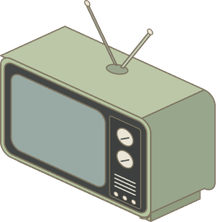
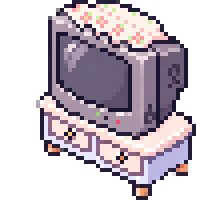
TV 그림을 에셋 담당이 보낸 픽셀 그림으로 바꾸고, 받침까지 그린 그림이라 책상 위 물건에서 바닥 가구로 바꿈: 예전 집에서 책상이나 식탁 위에 둔 TV는 불러올 때 받침 가구와 겹쳐 TV나 책상이 사라지므로, 다른 가구를 다 놓은 뒤 가장 가까운 빈 바닥으로 내림 (#179)

diff --git a/src/share.js b/src/share.js
@@ -11,7 +11,7 @@ import { WALL_PATTERNS } from '../data/wall-patterns.js';
 import { FLOOR_PATTERNS } from '../data/floor-patterns.js';
 import { USER_PICTURES } from '../data/user-pictures.js';
 import { customBytes, customFromBytes } from './custom-picture.js';
-import { canPlace } from './rules.js';
+import { canPlace, nearestSpot, onSurface } from './rules.js';
 import { sanitizeLikes, line } from './likes.js';
 import { RECORD_APPS, sanitizeRecords } from './records.js';
 
@@ -19,19 +19,31 @@ const MAX_ITEMS = 200;
 const MAX_NAME = 12;
 const MAX_GREETING = 30; // 화면 보호기 인사말(src/screensaver.js)
 
+// 'top'(책상 위 물건)이던 것을 'floor'(바닥 가구)로 바꾼 가구. 바꾸기 전의 저장본과 링크에서 책상이나 식탁 위에 있던 것은
+// 받침 가구와 겹친 배치가 되어 둘 가운데 목록에서 뒤에 온 쪽이 버려지므로, 다른 가구를 다 놓은 뒤 가장 가까운 빈 바닥으로 내린다.
+// TV는 2026-11-23에 받침까지 그린 그림으로 바꾸며 바닥 가구가 됐다
+const WAS_TOP = new Set(['tv']);
+
 // 한 공간의 가구 목록 검사. 모르는 가구, 다른 공간의 가구, 정수가 아닌 좌표, 규칙에 어긋나는 배치는 버린다.
 function sanitizeItems(list, sceneId) {
   // 'top' 가구는 받쳐 줄 책상이 먼저 놓여 있어야 검사를 통과한다.
   const rank = it => (BY_ID[it.id].zone === 'top' ? 1 : 0);
-  const items = [];
-  (Array.isArray(list) ? list.slice(0, MAX_ITEMS) : [])
+  const all = (Array.isArray(list) ? list.slice(0, MAX_ITEMS) : [])
     .filter(it => it && BY_ID[it.id] && BY_ID[it.id].scene === sceneId && Number.isInteger(it.x) && Number.isInteger(it.y))
     .map(it => (BY_ID[it.id].zone === 'wall'
       ? { id: it.id, wall: it.wall, x: it.x, y: it.y }
-      : { id: it.id, x: it.x, y: it.y, ...(it.r === 1 ? { r: 1 } : {}) }))
+      : { id: it.id, x: it.x, y: it.y, ...(it.r === 1 ? { r: 1 } : {}) }));
+  const lifted = all.filter(it => WAS_TOP.has(it.id) && onSurface(all, it));
+  const items = [];
+  all.filter(it => !lifted.includes(it))
     .sort((a, b) => rank(a) - rank(b))
     .forEach(it => { if (canPlace(items, it)) items.push(it); });
-  return items;
+  for (const it of lifted) {
+    const spot = nearestSpot(items, it);
+    if (spot) items.push(spot);
+  }
+  // 내린 가구도 바닥 가구 자리로 정렬해 두어, 다시 검사해도 같은 목록이 나온다
+  return items.sort((a, b) => rank(a) - rank(b));
 }
 
 // 방 꾸밈. 벽지(wall)와 바닥(floor)이다. 기본(plain)이거나 목록에 없는 id는 빼고, 둘 다 빠지면 null이라 집 상태에 decor를 두지 않는다.

diff --git a/data/furniture.js b/data/furniture.js
@@ -7,6 +7,7 @@
 // zone: 'wall'  벽에만 건다. size: [벽을 따라 칸 수, 높이 줄 수]
 //       'floor' 바닥에 놓는다. size: [오른쪽 아래 방향 칸 수, 왼쪽 아래 방향 칸 수], height: 화면 높이(px)
 //       'top'   바닥에 놓거나 surface 가구 위에 올린다. size, height는 floor와 같다
+//       'top'이던 가구를 'floor'로 바꾸면 src/share.js의 WAS_TOP에도 적는다. 그래야 예전 저장본과 링크에서 책상 위에 있던 것이 빈 바닥으로 내려온다(TV)
 // surface: true 이면 위에 'top' 가구를 올릴 수 있다 (올라간 가구는 height만큼 떠 있다)
 // perch:   고양이처럼 가구에 올라가는 펫(data/pets.js의 mood.perch)이 앉는 윗면의 높이(무대 px). 바닥 가구에만 두고, 없으면 올라가지 않는다.
 //          가구 그림에서 잰 값이라 그림을 바꾸면 다시 잰다(침대는 이불 위, 1인 소파는 방석 위다). 한 번에 뛰어오를 수 있게 75px 이하로 둔다
@@ -35,9 +36,9 @@ export const FURNITURE = [
   { id: 'lamp',      scene: 'room', name: '스탠드',   zone: 'floor', size: [1, 1], height: 120, color: '#d1be9a', light: true, gimmick: 'night' },
   { id: 'audio',     scene: 'room', name: '오디오',   zone: 'floor', size: [1, 1], height: 96, color: '#5b5b66', say: '노래 듣고 싶은데.' },
   { id: 'big-plant', scene: 'room', name: '큰 화분',  zone: 'floor', size: [1, 1], height: 84, color: '#5c643b', say: '물을 자주 줘야겠다.' },
+  { id: 'tv',        scene: 'room', name: 'TV',       zone: 'floor', size: [2, 1], height: 46, color: '#939d8a', gimmick: 'app:tv' },
   // 내 방: 책상이나 식탁 위 (바닥에도 놓을 수 있다)
   { id: 'computer',  scene: 'room', name: '컴퓨터',   zone: 'top', size: [1, 1], height: 48, color: '#d7d3c8', gimmick: 'app:computer' },
-  { id: 'tv',        scene: 'room', name: 'TV',       zone: 'top', size: [2, 1], height: 57, color: '#939d8a', gimmick: 'app:tv' },
   { id: 'console',   scene: 'room', name: '게임기',   zone: 'top', size: [1, 1], height: 4, color: '#9895a4', gimmick: 'app:console' },
   { id: 'camera',    scene: 'room', name: '디카',     zone: 'top', size: [1, 1], height: 12, color: '#b6b6b2', say: '메모리 카드 남았나.' },
   { id: 'diary',     scene: 'room', name: '다이어리', zone: 'top', size: [1, 1], height: 4, color: '#af7570', say: '오늘은 뭘 적지.' },

diff --git a/src/rules.js b/src/rules.js
@@ -30,6 +30,11 @@ export function supportOf(items, item) {
   return items.find(s => s !== item && !isWall(s) && BY_ID[s.id].surface && inside(item, s)) || null;
 }
 
+// item의 바닥 면이 surface 가구(책상, 식탁)의 바닥 면 안에 들어가 있는지. zone과 상관없이 본다.
+// 'top'에서 'floor'로 바꾼 가구가 예전 저장본에서 책상 위에 있었는지 가릴 때 쓴다(src/share.js의 sanitizeItems)
+export const onSurface = (items, item) =>
+  !isWall(item) && items.some(s => s !== item && !isWall(s) && BY_ID[s.id].surface && inside(item, s));
+
 export function elevOf(items, item) {
   const s = supportOf(items, item);
   return s ? BY_ID[s.id].height : 0;
@@ -83,4 +88,21 @@ export function canPlace(others, item) {
     if (def.surface && BY_ID[o.id].zone === 'top' && inside(o, item)) return false; // 책상 위의 물건
     return true;
   });
+}
+
+// 바닥 쪽 가구 item을 others 사이에 놓을 수 있는 가장 가까운 자리. 같은 방향으로 놓을 곳이 없을 때만 돌려 놓고, 그래도 없으면 null.
+// 예전 저장본과 링크에서 지금 규칙으로는 그 자리에 둘 수 없게 된 가구를 옮길 때 쓴다(src/share.js의 sanitizeItems)
+export function nearestSpot(others, item) {
+  for (const r of item.r ? [1, 0] : [0, 1]) {
+    let best = null;
+    for (let y = 0; y < N; y++) {
+      for (let x = 0; x < N; x++) {
+        const spot = { id: item.id, x, y, ...(r ? { r: 1 } : {}) };
+        const d = (x - item.x) ** 2 + (y - item.y) ** 2;
+        if ((!best || d < best.d) && canPlace(others, spot)) best = { d, spot };
+      }
+    }
+    if (best) return best.spot;
+  }
+  return null;
 }

diff --git a/worklog/2026-11-23-soomin007-tv-floor.md b/worklog/2026-11-23-soomin007-tv-floor.md
@@ -1,0 +1,30 @@
+# 2026-11-23 TV 픽셀 그림과 바닥 가구 (soomin007)
+
+## 한 일
+
+에셋 담당이 보낸 둘째 픽셀 가구 묶음에서 TV 그림을 넣었다. 받침까지 함께 그린 그림이라 TV를 책상 위에 올리는 물건('top')에서 바닥에 놓는 가구('floor')로 바꿨다.
+zone만 바꾸면 예전 집에서 책상이나 식탁 위에 둔 TV가 불러올 때 받침 가구와 겹쳐 TV나 책상 하나가 사라지므로, 그런 TV는 가장 가까운 빈 바닥으로 내린다.
+
+## 바꾼 파일
+
+- `assets/furniture/tv.png`: 받은 80×80 그림을 2×1칸 상자(1배 54×50)에 1픽셀 = 무대 2px로 옮기고 최근접 4배(216×200)로 키움
+- `data/furniture.js`: TV 줄을 바닥 가구 쪽으로 옮겨 zone을 'floor'로, height를 57에서 46으로 바꿈. 'top'이던 가구를 'floor'로 바꿀 때 할 일을 머리 주석에 적음
+- `src/rules.js`: `onSurface`(바닥 면이 책상이나 식탁 위 칸 안에 있는지), `nearestSpot`(놓을 수 있는 가장 가까운 자리)
+- `src/share.js`: `sanitizeItems`가 `WAS_TOP`의 가구(TV) 가운데 책상 위에 있던 것을 다른 가구를 다 놓은 뒤 가장 가까운 빈 바닥으로 내림
+- `docs/requirements.md`, `docs/tasks.md`, `docs/guide.md`, `docs/file-map.md`, `known-issues.md`(115)
+
+## 정한 것과 이유
+
+- TV 그림에 낮은 받침이 붙어 있어, 책상 위에 올리면 받침째 올라간다. 받은 그림을 기준으로 삼기로 해서 사이트 쪽을 바꿨다. 칸 수 2×1과 높이 46은 그림에서 잰 값이다(앞 꼭짓점에서 왼쪽 25.5, 오른쪽 13.5픽셀).
+- 책상 위에 있던 TV는 다른 가구를 다 놓은 뒤에 자리를 찾는다. 먼저 놓으면 TV가 그 자리를 차지해, 목록에서 뒤에 오는 책상이나 바닥에 둔 물건이 버려진다.
+  같은 방향으로 놓을 곳이 없을 때만 돌려 놓고, 빈 바닥이 아예 없으면 TV만 빼고 책상은 남긴다.
+- 내린 TV는 목록에서 바닥 가구 자리로 정렬한다. 그래야 다시 검사하거나 링크로 바꿨다 풀어도 같은 목록이 나온다.
+- 이웃집 여섯 집(서버의 방)을 받아 보니 TV가 있는 세 집 모두 TV를 바닥에 두었고, 바꾼 뒤에도 빠지는 가구가 없었다.
+  서버가 방 목록 읽기를 막아 다른 사람의 집은 볼 수 없어서 내리는 처리를 넣었다.
+
+## 남은 일과 알아 둘 것
+
+- TV를 두 번 눌러 여는 가까이 보기 화면은 아직 예전 가구 그림처럼 안테나가 달린 초록 TV다(`style.css`의 TV 절). 새 그림은 크림색 받침 위의 회색 브라운관 TV라 모양이 다르다.
+- 나머지 네 장(책장, 1인 소파, 소파, 스탠드)은 에셋 담당이 다듬는 중이라 넣지 않았다. 그림에서 잰 height는 책장 98, 1인 소파 34, 소파 32, 스탠드 78이고, 1인 소파는 고양이가 앉는 높이(`perch`)를 다시 잰다.
+- 확인: `python tools/check.py`(오류 0개, 경고는 원래 있던 침대와 라디오 둘), `node tools/link-fuzz.mjs`(실패 0개), `node tools/smoke.mjs`(961개 가운데 실패 0개),
+  책상과 식탁 위 TV를 내리는 시험(TV가 책상보다 앞에 적힌 목록, 빈 바닥이 없는 방, 다시 검사와 링크 왕복 포함), 화면 없는 크롬에서 TV가 받침째 바닥에 서는 모습을 봤다.

diff --git a/docs/tasks.md b/docs/tasks.md
@@ -21,6 +21,7 @@ F로 시작하는 번호는 `docs/requirements.md`의 요구 사항 번호이고
 | 가구 그림을 배경 없는 PNG로 따기 (`assets/furniture/<id>.png`). 옷장과 식탁은 피그마 스케치에서 받아 넣음. 책상, 침대, 책장, 옷장, 1인 소파, 냉장고, TV, 스탠드, 탁상 조명 2개, 큰 화분, 컴퓨터, 라디오, 책 더미, 게임기, 디카, 다이어리, 창문 2개, 비즈 발, 포스터 액자 그림을 넣음(2026-11-10) | 가구 그림 담당 | 하는 중 |
 | 식탁 그림을 방의 각도(2:1, 약 26.6도)에 맞추기. 지금 식탁 윗면은 약 30도. 옷장은 2:1로 다시 그린 그림을 넣음(2026-11-10) | 가구 그림 담당 | 하는 중 |
 | 옷장 그림을 에셋 담당의 픽셀 그림으로 바꾸고, 같이 온 밤 그림(문의 야광 별)과 문이 열린 그림을 넣기. 밤에는 별이 밝아지고, 두 번 눌러 아바타가 혼잣말을 하는 동안 문이 열린다(2026-11-23) | Admin | 끝 |
+| TV 그림을 에셋 담당의 픽셀 그림으로 바꾸고, 받침까지 함께 그린 그림이라 바닥에 놓는 가구로 바꾸기. 예전 집에서 책상이나 식탁 위에 둔 TV는 불러올 때 가장 가까운 빈 바닥으로 내린다(2026-11-23) | Admin | 끝 |
 | 가구 그림을 새로 그릴 때 `docs/checklists.md`의 가구 그림 점검 항목(바닥 기울기와 튀어나옴, 앞 꼭짓점 맞추기, 같은 부품 같은 크기, 벽 가구는 정면) 지키기. 바닥 튀어나옴, 앞 꼭짓점, 벽 가구 정면은 `python tools/check.py`가 경고한다. 지금 그림 가운데 침대와 라디오가 칸에 맞지 않아 경고가 나온다 | 가구 그림 담당 | 할 일 |
 | 코르크 보드 그림 그리기(벽에 거는 가구, 3칸 × 2줄, `assets/furniture/corkboard.png`). 그림이 오기 전까지는 코르크색 상자로 보인다 | 가구 그림 담당 | 할 일 |
 | 시험지 그림 그리기(책상이나 식탁 위에 올리는 물건, 1칸 × 1칸, `assets/furniture/test-paper.png`). 그림이 오기 전까지는 종이색 상자로 보인다 | 가구 그림 담당 | 할 일 |

diff --git a/known-issues.md b/known-issues.md
@@ -919,3 +919,9 @@ grep -n '^## .*\[라디오\]' known-issues.md   # 한 영역의 제목
 - 증상: 고친 직후 시험한 창에서는 48점 아이콘이 한 점 2픽셀(96px)이었는데, 사용자 화면에서는 한 점 1픽셀(48px, 200% 화면에서 24px 크기)로 작았다(2026-11-23).
 - 원인: 시험 창을 즐겨찾기 줄이 없는 크롬(위쪽 87px)으로 잡았는데 사용자 크롬은 즐겨찾기 줄을 켜 둬 위쪽이 117px였다. 무대가 0.72배에서 0.69배로 줄어 한 점이 1.44에서 1.38픽셀이 됐고, 1과 2 가운데 가까운 정수를 고르는 경계(1.41)를 넘었다.
 - 규칙: 화면 크기로 무언가를 고르는 코드는 경계 근처의 화면을 즐겨찾기 줄을 켠 크롬(작업 표시줄 48px, 크롬 위쪽 117px)으로도 잰다. 정수 배를 고를 때는 화면에서의 실제 크기에 하한(윈도우 바탕화면의 작은 아이콘 32px)을 둬, 창 높이 몇 px로 크기가 반으로 뒤집히지 않게 한다.
+
+## 115. [방][저장] 가구의 zone을 바꾸면 예전 저장본에서 그 가구나 받침 가구가 조용히 사라진다 (불러올 때 겹친 배치로 보고 하나를 버림)
+
+- 증상: 받침까지 그린 TV 그림을 넣으며 TV를 책상 위 물건('top')에서 바닥 가구('floor')로 바꾸자, 책상 위에 TV를 둔 집은 불러올 때 TV나 책상 하나가 없어지게 됐다(2026-11-23, 합치기 전에 찾음).
+- 원인: `src/share.js`의 `sanitizeItems`는 저장본과 링크를 불러올 때마다 `canPlace`로 다시 검사하고, 겹친 둘 가운데 목록에서 뒤에 온 쪽을 버린다. zone이 바뀌면 전에는 맞던 배치(책상 위의 TV)가 겹친 배치가 되고, 목록에서 TV가 책상보다 앞에 있으면 책상이 사라진다.
+- 규칙: zone이나 size처럼 배치 규칙에 드는 값을 바꿀 때는 예전 배치를 새 규칙에 맞게 옮기는 처리를 `sanitizeItems`에 같이 넣는다(TV는 `WAS_TOP`에 적어 가장 가까운 빈 바닥으로 내린다). 서버는 방 목록 읽기를 막아 두어 누구의 집이 걸리는지 다 볼 수 없다.

diff --git a/docs/file-map.md b/docs/file-map.md
@@ -30,7 +30,7 @@
 | 기믹이 없는 가구를 두 번 눌렀을 때 아바타의 혼잣말 고치기 | `data/furniture.js`의 그 가구 줄의 `say`. 줄을 꺼내는 곳은 `src/furniture-line.js`의 `furnitureLine`, 말하게 하는 곳은 `src/os.js`의 `openFurniture`. 13자를 넘거나 이름만 되풀이하면 `python tools/check.py`가 알려 준다 |
 | 가구의 밤 그림과 쓰는 동안의 그림(옷장 문의 야광 별, 열린 문) | `data/furniture.js`의 그 가구 줄의 `night`, `open`과, 원래 그림과 크기가 같은 `assets/furniture/<id>-night.png`, `<id>-open.png`. 겹쳐 그리는 곳은 `src/room.js`의 `furnitureEl`, 밤에만, 연 동안에만 보이게 하는 곳은 `style.css`의 `.furn img.night`, 문을 여는 때와 시간(혼잣말이 떠 있는 동안)은 `src/os.js`의 `openFurniture`와 `src/avatar.js`의 `say`. 그림 이름과 크기는 `python tools/check.py`가 본다 |
 | 격자 크기, 벽 높이, 화면 크기 | `src/config.js` |
-| 가구를 놓을 수 있는지 정하는 규칙 | `src/rules.js`의 `canPlace`(불러올 때도 쓴다), 방 꾸미기에서 새로 걸 때만 보는 현관문 자리는 `coversDoor` |
+| 가구를 놓을 수 있는지 정하는 규칙 | `src/rules.js`의 `canPlace`(불러올 때도 쓴다), 방 꾸미기에서 새로 걸 때만 보는 현관문 자리는 `coversDoor`. 책상 위에 올리던 가구를 바닥 가구로 바꿨을 때 예전 저장본에서 책상 위에 있던 것을 빈 바닥으로 내리는 일은 `src/share.js`의 `WAS_TOP`과 `src/rules.js`의 `nearestSpot` |
 | 가구 끌기와 눌러서 옮기기, 돌리기, 치우기 | `src/room.js`의 `beginDrag`(누르고 움직이지 않은 채 떼면 집는 것은 `carry`) |
 | 앞뒤로 겹쳐 그리는 순서 | `src/room.js`의 `zOf`, `src/iso.js`의 `depthOf` |
 | 바탕화면 방을 걷는 아바타(걷기, 길찾기, 말풍선) | `src/avatar.js`. 바탕화면에 붙이는 곳은 `src/os.js`의 `showDesktop`, 가구와의 앞뒤는 `depthZ` |

diff --git a/docs/guide.md b/docs/guide.md
@@ -72,6 +72,7 @@
 
 선반의 가구를 끌어다 방에 놓으면 격자에 맞춰 자리를 잡습니다. 다른 가구와 겹치거나 벽 밖으로 나가는 자리에서는 빨갛게 표시되고 놓이지 않습니다.
 놓은 가구는 다시 끌어 옮기고, 선반 위로 끌어다 놓으면 치워집니다. 바닥 가구와 책상 위 물건은 옮기는 동안 R 키나 마우스 휠로 돌립니다.
+TV는 받침까지 그린 그림이라 바닥에만 놓습니다. 예전에 책상이나 식탁 위에 올려 둔 TV는 그 집을 불러올 때 가장 가까운 빈 바닥으로 내려옵니다(`src/share.js`의 `WAS_TOP`).
 1인 소파처럼 칸이 정사각형인 가구도 돌아갑니다. 차지하는 칸은 그대로이고 그림만 좌우로 뒤집혀 다른 쪽을 봅니다. 벽에 거는 가구는 돌리지 않습니다.
 컴퓨터나 머그컵처럼 작은 물건은 책상과 식탁 위에 올라가고, 그 가구를 옮기면 위에 있던 물건도 함께 따라옵니다.
 
